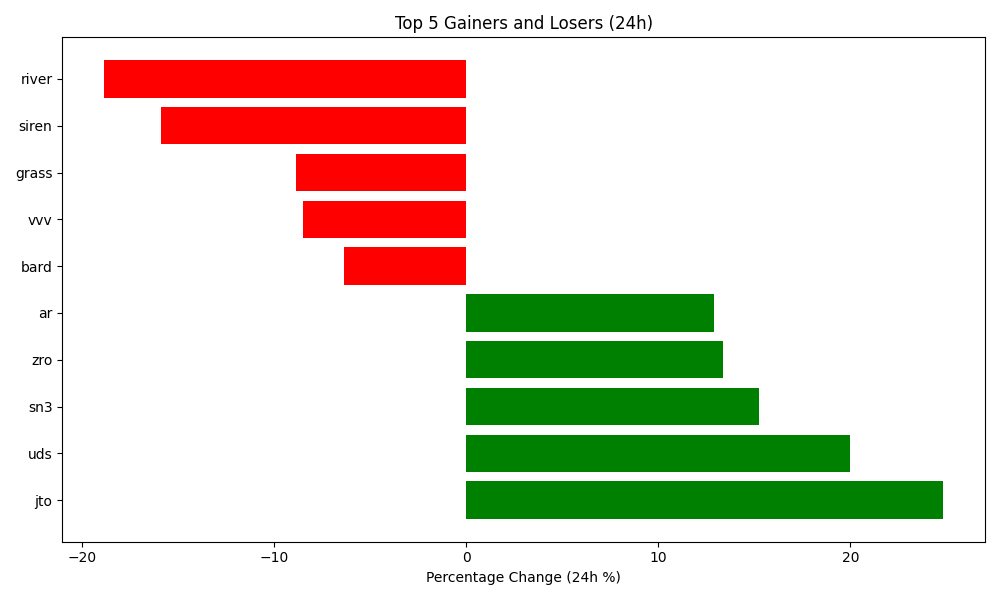
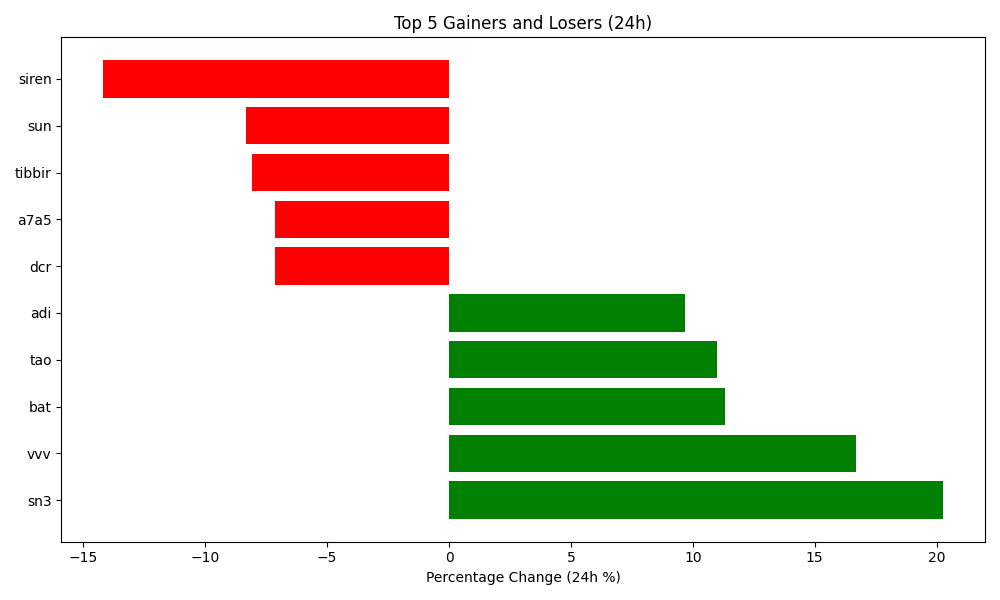
Auto-update crypto data and plot

diff --git a/README.md b/README.md
@@ -4,7 +4,7 @@ Author: Hitesh Agrawal
 This repository automatically tracks the top 5 gaining, top 5 losing, and top 5 highest volume cryptocurrencies in the last 24 hours using the CoinGecko API, Python, Matplotlib, and GitHub Actions updates the below content everyday at midnight.
 
 <!-- START_DYNAMIC_CONTENT -->
-Last updated: 2026-03-24 01:23 UTC
+Last updated: 2026-03-25 01:27 UTC
 
 ![Crypto Movers Plot](crypto_movers_plot.png)
 
@@ -12,33 +12,33 @@ Last updated: 2026-03-24 01:23 UTC
 
 | Rank | Coin | Price Change (24h %) | Volume (USD) | Current Price (USD) |
 | :--: | :--: | :------------------: | :----------: | :-----------------: |
-| 1 | jto | 24.83% | $101,297,019 | $0.3510 |
-| 2 | uds | 20.00% | $366,462 | $1.8000 |
-| 3 | sn3 | 15.24% | $6,561,542 | $26.3500 |
-| 4 | zro | 13.37% | $101,480,266 | $2.2000 |
-| 5 | ar | 12.90% | $42,708,509 | $1.9100 |
+| 1 | sn3 | 20.26% | $12,001,319 | $31.8400 |
+| 2 | vvv | 16.68% | $19,192,631 | $6.6100 |
+| 3 | bat | 11.33% | $64,414,489 | $0.1081 |
+| 4 | tao | 11.00% | $920,905,174 | $332.3400 |
+| 5 | adi | 9.70% | $1,915,038 | $3.6500 |
 
 
 **👇 Top 5 Losers (24h)**
 
 | Rank | Coin | Price Change (24h %) | Volume (USD) | Current Price (USD) |
 | :--: | :--: | :------------------: | :----------: | :-----------------: |
-| 1 | river | -18.85% | $53,654,573 | $24.1200 |
-| 2 | siren | -15.87% | $52,012,219 | $2.0300 |
-| 3 | grass | -8.85% | $18,621,135 | $0.3327 |
-| 4 | vvv | -8.49% | $16,340,715 | $5.6800 |
-| 5 | bard | -6.38% | $45,250,529 | $0.4769 |
+| 1 | siren | -14.18% | $55,468,511 | $1.5600 |
+| 2 | sun | -8.32% | $140,803,593 | $0.0175 |
+| 3 | tibbir | -8.07% | $2,253,963 | $0.1303 |
+| 4 | a7a5 | -7.16% | $7,301 | $0.0125 |
+| 5 | dcr | -7.14% | $4,046,894 | $21.0500 |
 
 
 **💎 Top 5 by Trade Volume (24h)**
 
 | Rank | Coin | Price Change (24h %) | Volume (USD) | Current Price (USD) |
 | :--: | :--: | :------------------: | :----------: | :-----------------: |
-| 1 | usdt | -0.00% | $89,331,968,275 | $0.9998 |
-| 2 | btc | 3.86% | $51,988,327,714 | $70,702.0000 |
-| 3 | eth | 4.02% | $28,033,045,283 | $2,143.8100 |
-| 4 | usdc | 0.00% | $7,839,429,406 | $0.9999 |
-| 5 | sol | 5.08% | $5,346,736,241 | $90.8100 |
+| 1 | usdt | -0.02% | $68,274,179,475 | $0.9996 |
+| 2 | btc | -0.20% | $41,610,135,956 | $70,680.0000 |
+| 3 | eth | 0.50% | $18,367,568,669 | $2,158.4400 |
+| 4 | sol | 0.14% | $4,083,003,685 | $91.0400 |
+| 5 | usdc | -0.02% | $3,817,440,172 | $0.9998 |
 
 
 <!-- END_DYNAMIC_CONTENT -->
